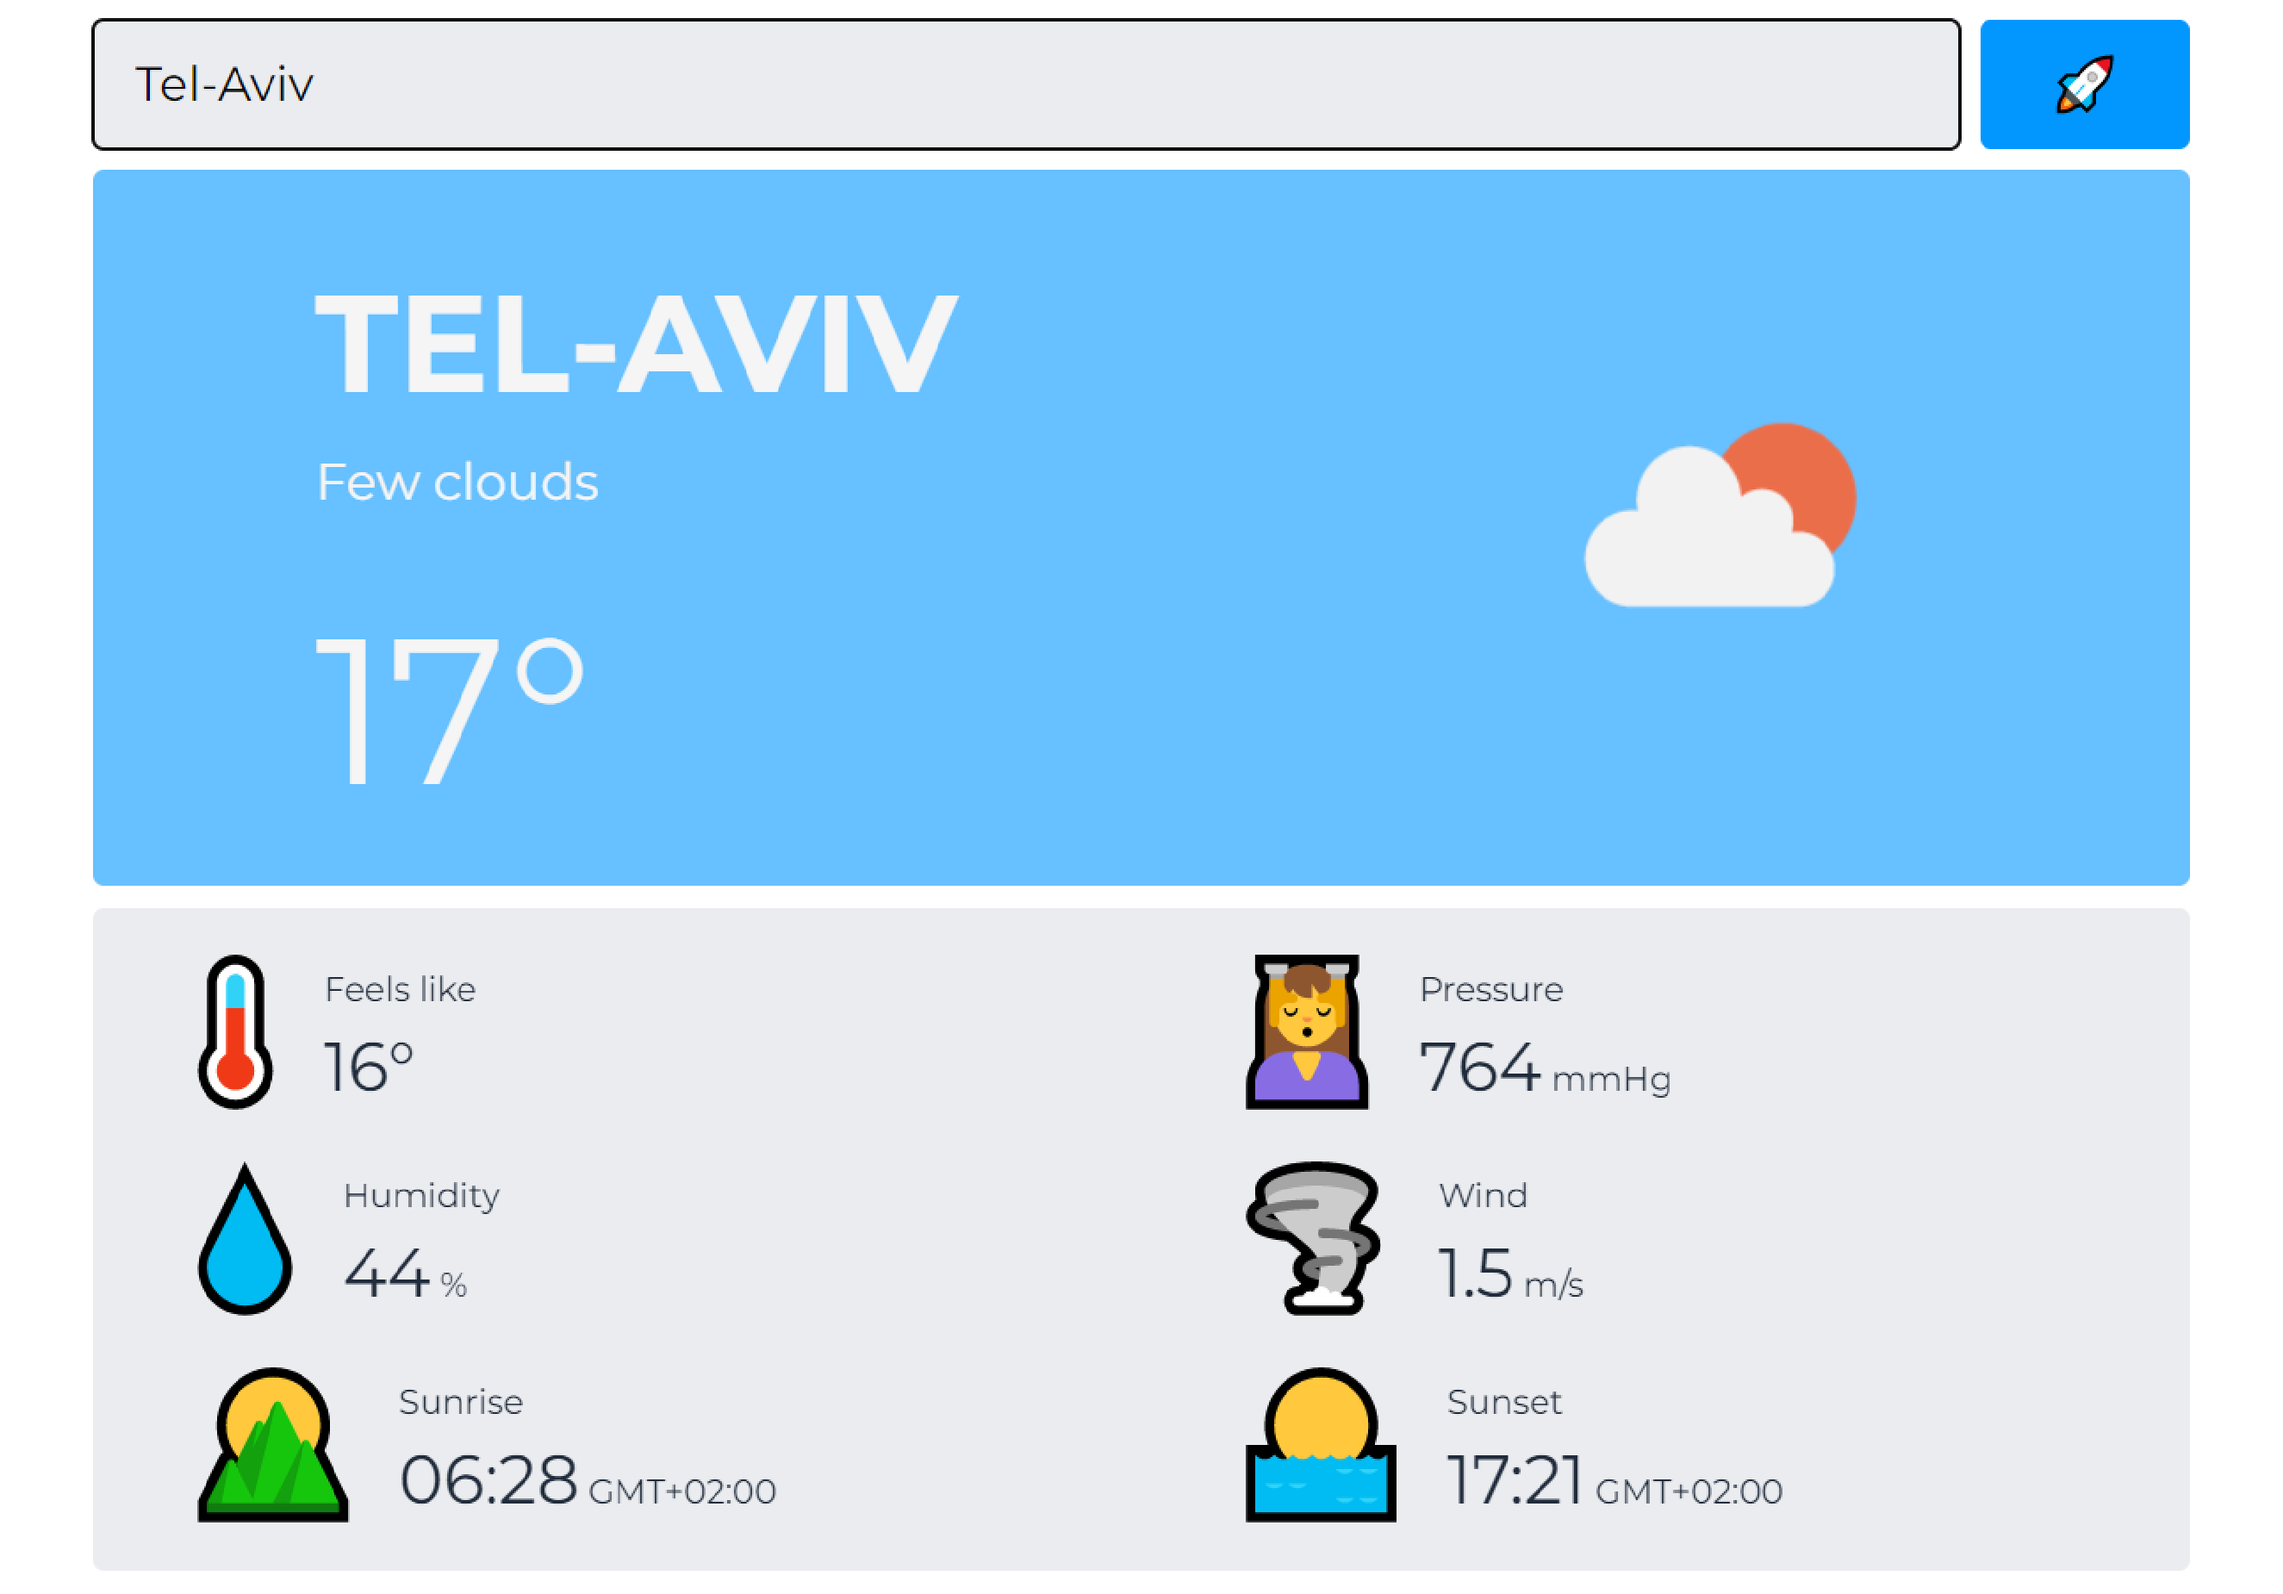
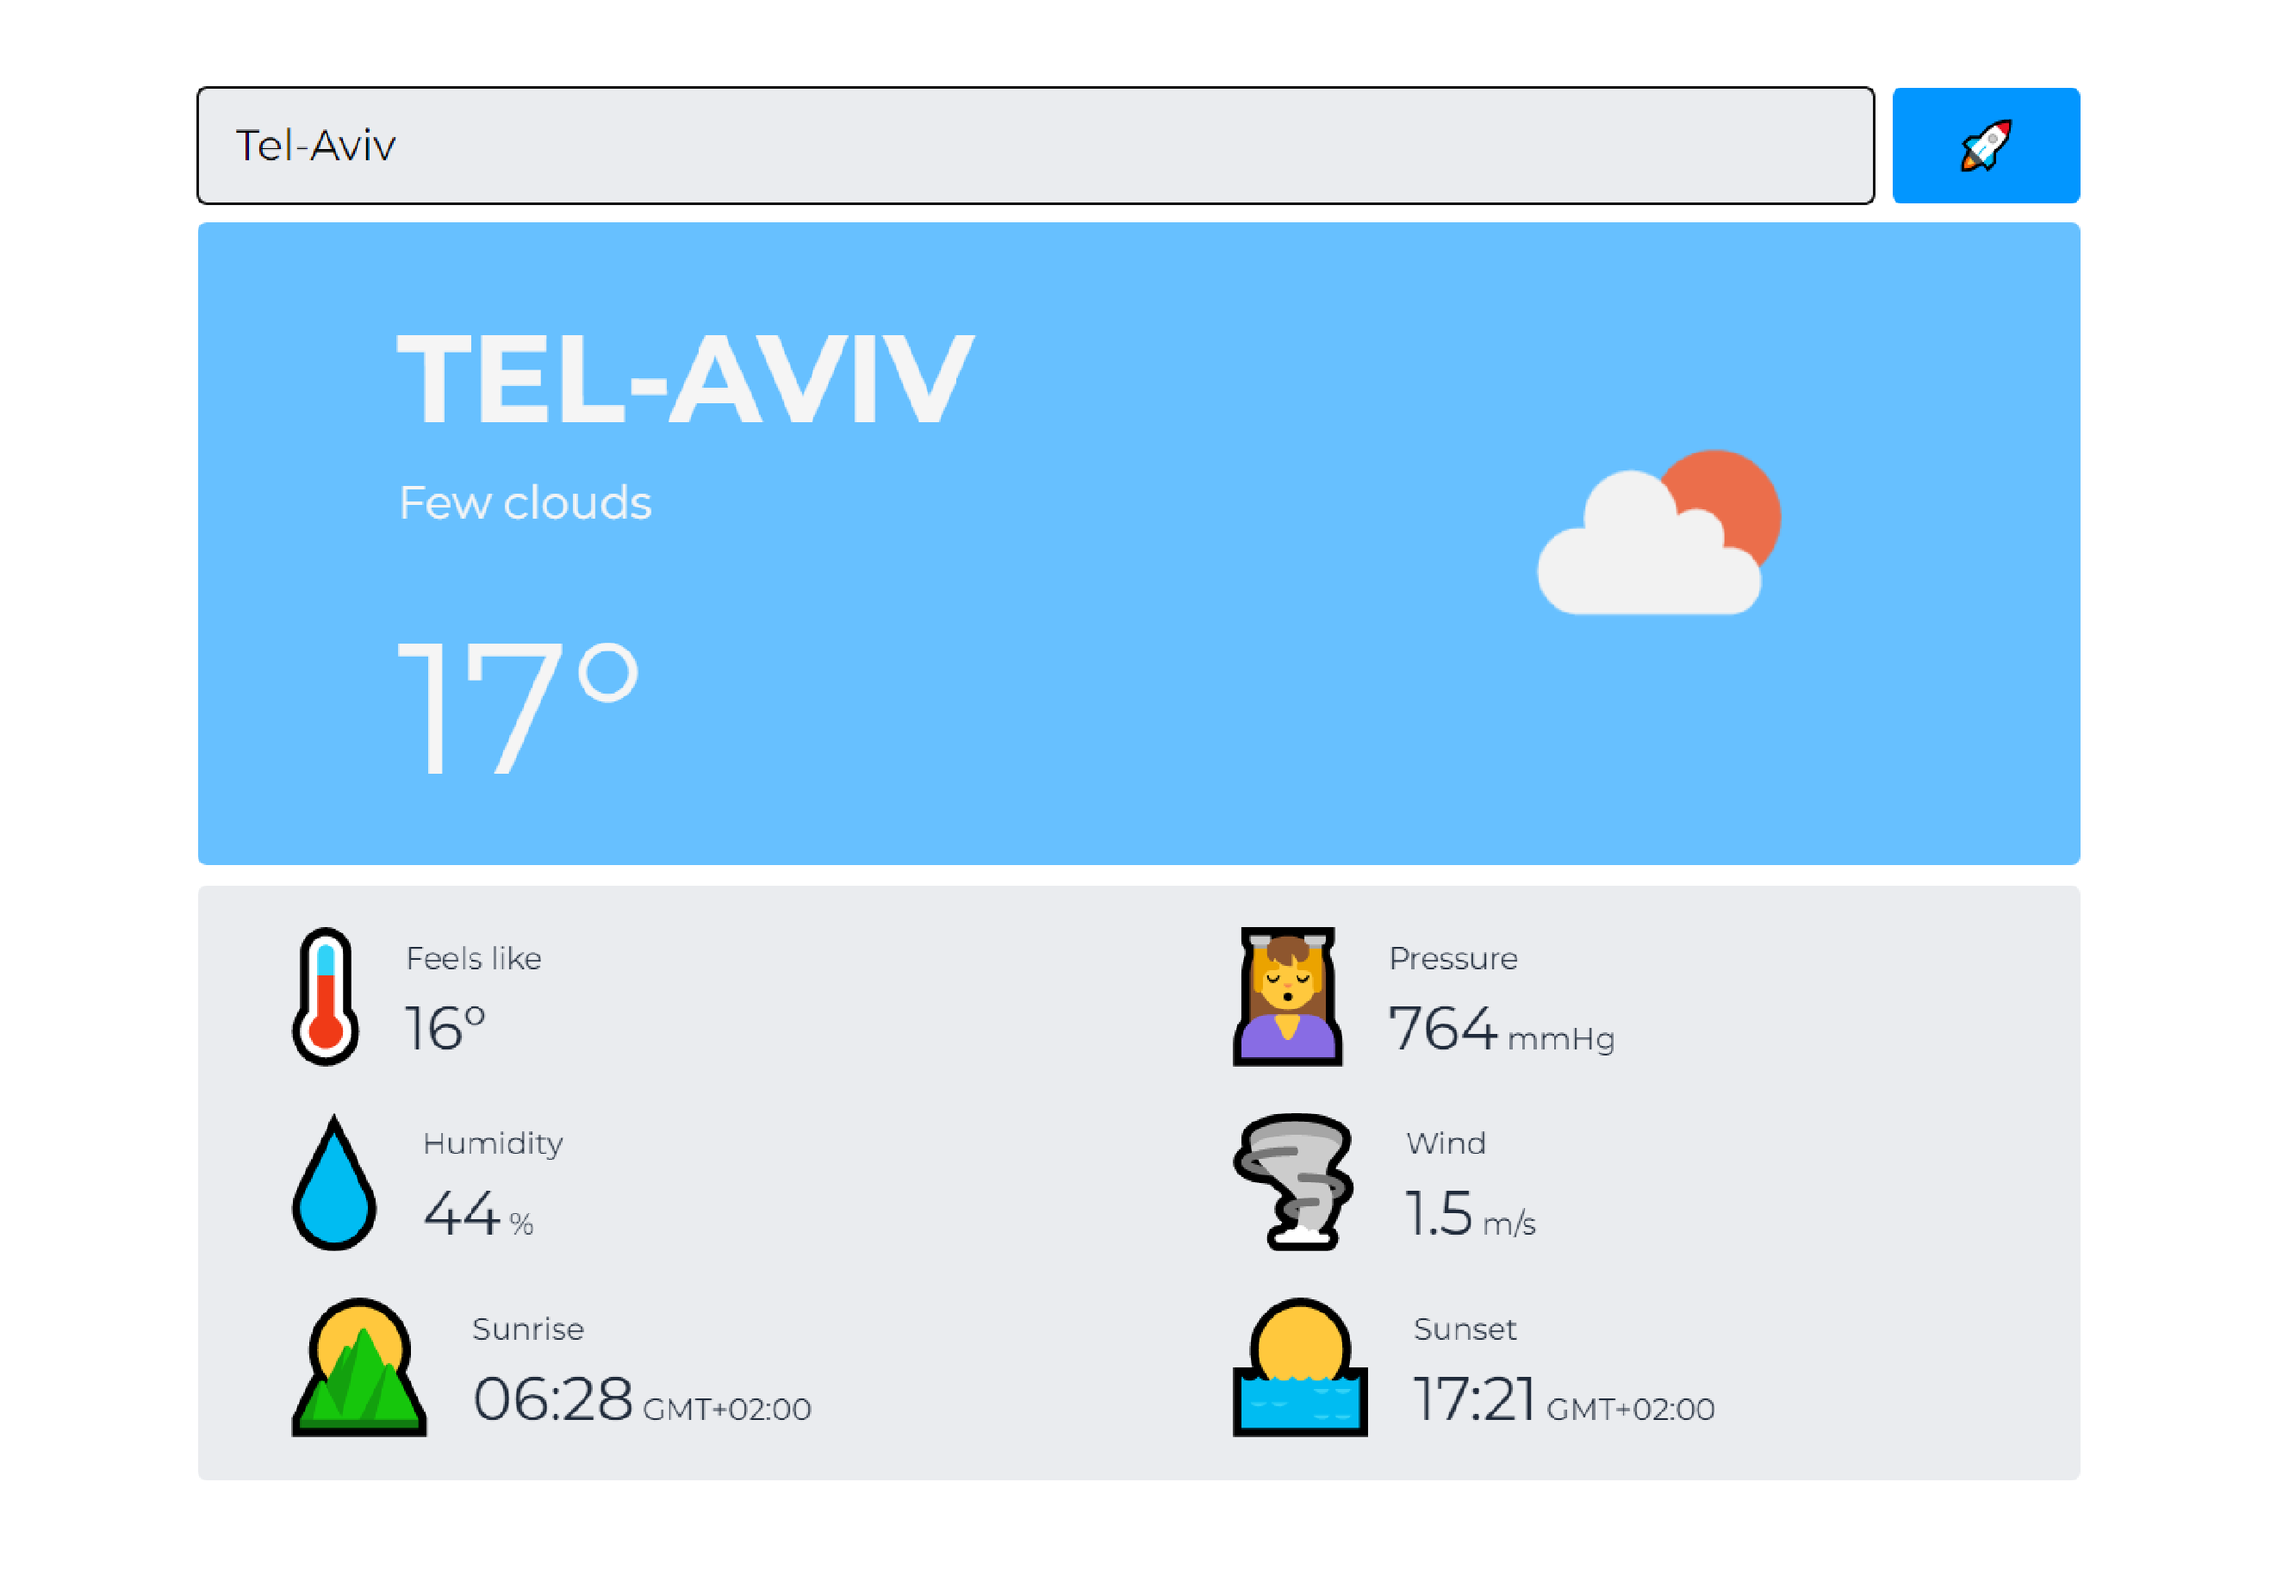
Added some more jquery to animate project screenshots

diff --git a/src/components/projects/ProjectItem.jsx b/src/components/projects/ProjectItem.jsx
@@ -3,15 +3,32 @@ import s from './projects.module.css'
 import $ from "jquery"
 
 function ProjectItem(props) {
+    const zoomIn = (e) => {
+        const normalWidth = '300px'
+        const maxWidth = '80%'
+        if (e.target.parentNode.style.width === maxWidth) {
+            $(e.target).parent().animate({width: normalWidth}, 'slow')
+            $('.projectItem').fadeIn('slow')
+            return
+        }
+        $('.projectItem').each(function() {
+            if ($(this).attr('id') !== $(e.target).parent().attr('id')) {
+                $(this).fadeOut('slow')
+            }
+        })
+        $('.projectItem').animate({width: normalWidth}, 'slow')
+        $(`#${props.id}`).animate({width: maxWidth}, 'slow')
+    }
+
     return (
         <div
             style={{
-            display: 'flex',
-            flexDirection: 'column',
-            flexWrap: 'wrap',
-            gap: '1em',
-            width: '300px',
-        }}
+                display: 'flex',
+                flexDirection: 'column',
+                flexWrap: 'wrap',
+                gap: '1em',
+                width: '40%',
+            }}
             // className={s.item}
             className={'projectItem'}
             id={props.id}
@@ -19,12 +36,8 @@ function ProjectItem(props) {
             <a href={props.linkUrl} className={s.title} target={'_blank'} rel={'noreferrer'}>
                 <h2>{props.title}</h2>
             </a>
-                <img src={props.imageUrl} alt="screenshot" className={s.screenshot}
-                onClick={() => {
-                    //TODO: make images bigger, 2 in a row?
-                    $('.projectItem').animate({width: '300px'}, 'slow')
-                    $(`#${props.id}`).animate({width: '400px'}, 'slow')
-                }} />
+            <img src={props.imageUrl} alt="screenshot" className={s.screenshot}
+                 onClick={(e) => zoomIn(e)}/>
             <div className={s.description}>
                 {props.description}
             </div>

diff --git a/src/App.js b/src/App.js
@@ -27,7 +27,7 @@ function App() {
                 <ParallaxLayer offset={1} speed={1} className='centered yellow'>
                     <Skills/>
                 </ParallaxLayer>
-                <ParallaxLayer offset={2} speed={1} factor={2} className='centered coral'>
+                <ParallaxLayer offset={2} speed={1} className='centered coral'>
                     <Projects/>
                 </ParallaxLayer>
                 <ParallaxLayer offset={3} speed={1} className='centered cyan'>
@@ -40,8 +40,10 @@ function App() {
                 <ParallaxLayer offset={1} speed={0.5} factor={0.2}>
                     <ScrollArrow scrollTo={scrollTo} page={2} text={'Go downer 🏊'}/>
                 </ParallaxLayer>
-                <ParallaxLayer offset={2} speed={0.25} factor={0.2}>
-                    <ScrollArrow scrollTo={scrollTo} page={3} text={'🤙 Call me?'}/>
+                <ParallaxLayer offset={2} speed={0.25} factor={0.2}
+                               // sticky={{start: 2, end: 2.8}}
+                >
+                    <ScrollArrow scrollTo={scrollTo} page={4} text={'🤙 Call me?'}/>
                 </ParallaxLayer>
                 <ParallaxLayer offset={3} speed={0.5} factor={0.2}>
                     <ScrollArrow scrollTo={scrollTo} page={0} text={'Go up 🚀'}/>

diff --git a/src/App.css b/src/App.css
@@ -1,3 +1,9 @@
+html,
+body,
+#root {
+    overflow: hidden;
+}
+
 * {
     box-sizing: border-box;
     margin: 0;
@@ -20,10 +26,12 @@
 
 .bg {
     background: linear-gradient(
-        var(--blue) 0%, var(--blue) 20%,
-        var(--yellow) 30%, var(--yellow) 40%,
-        var(--red) 60%, var(--red) 70%,
-        var(--blue) 80%, var(--blue) 100%);
+        /*var(--blue) 0%, var(--blue) 20%,*/
+        /*var(--yellow) 30%, var(--yellow) 40%,*/
+        /*var(--red) 60%, var(--red) 70%,*/
+        /*var(--blue) 80%, var(--blue) 100%);*/
+
+    var(--blue) 12.5%, var(--yellow) 37.5%, var(--red) 62.5%, var(--blue) 87.5%);
 }
 
 .cyan {

diff --git a/src/components/projects/projectsData.js b/src/components/projects/projectsData.js
@@ -4,7 +4,7 @@ import React from "react";
 
 //IMAGES
 import M4FS_PIC from '../../images/bg.jpg'
-import WEATHER_PIC from '../../images/weather_app2.png'
+import WEATHER_PIC from '../../images/weather_app.png'
 import BLACKJACK_PIC from '../../images/blackjack.png'
 import RACCOON_PIC from '../../images/raccoon_lists.png'
 import VOROBEI_PIC from '../../images/ptiza_vorobei.png'

diff --git a/src/components/projects/projects.module.css b/src/components/projects/projects.module.css
@@ -17,6 +17,12 @@
     flex-direction: row;
     flex-wrap: wrap;
     gap: 5vw;
+
+    height: 75vh;
+    overflow: auto;
+
+    border: 1px solid black;
+    border-radius: 25px;
 }
 .item {
     display: flex;
